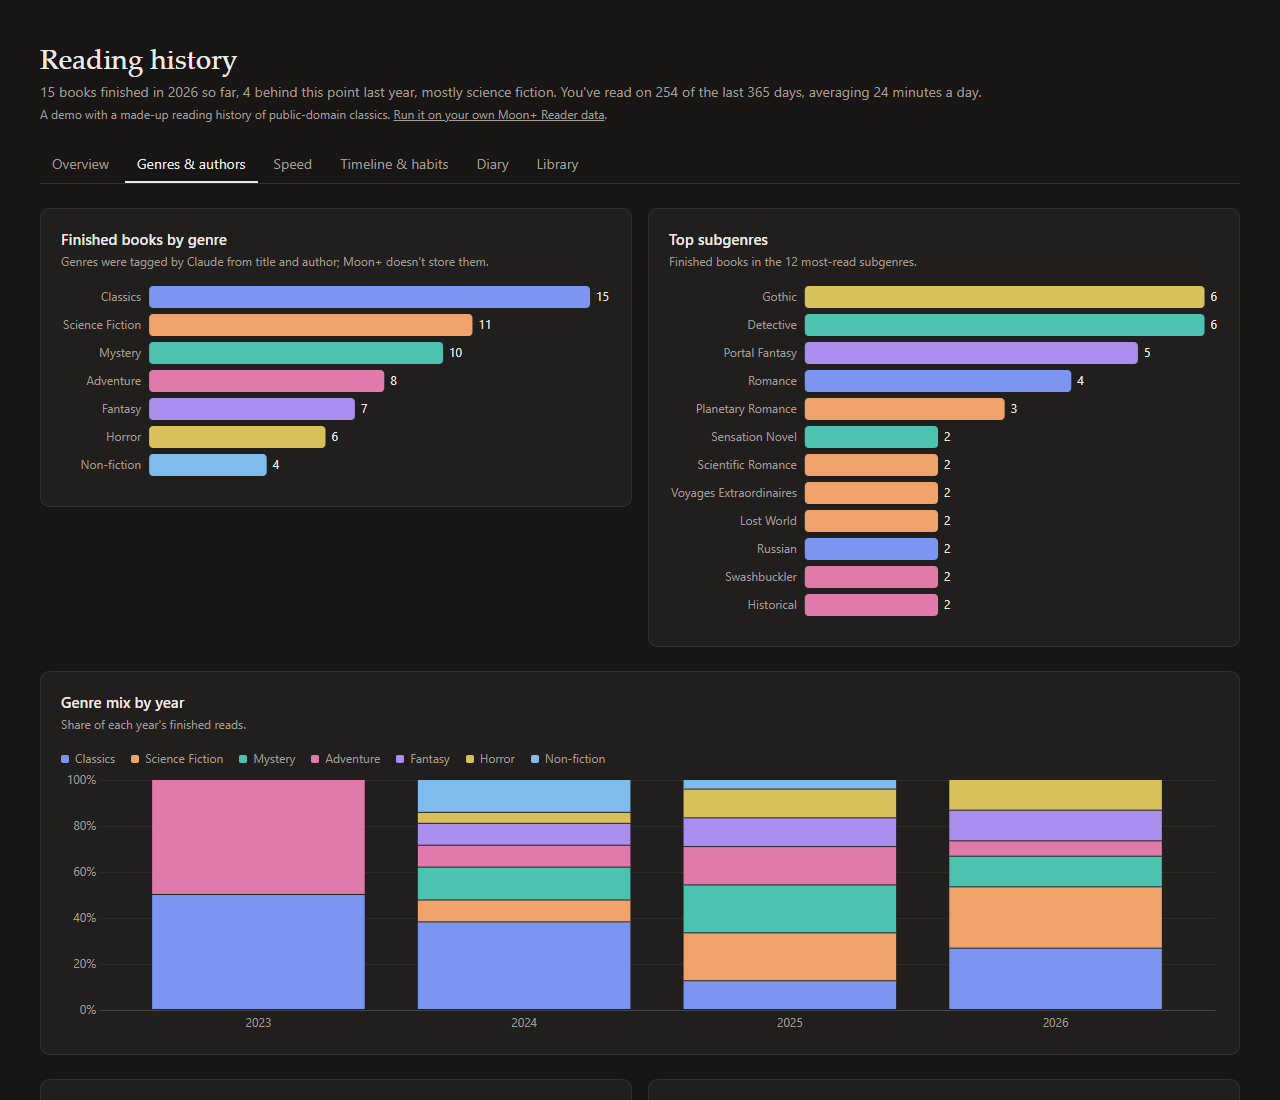
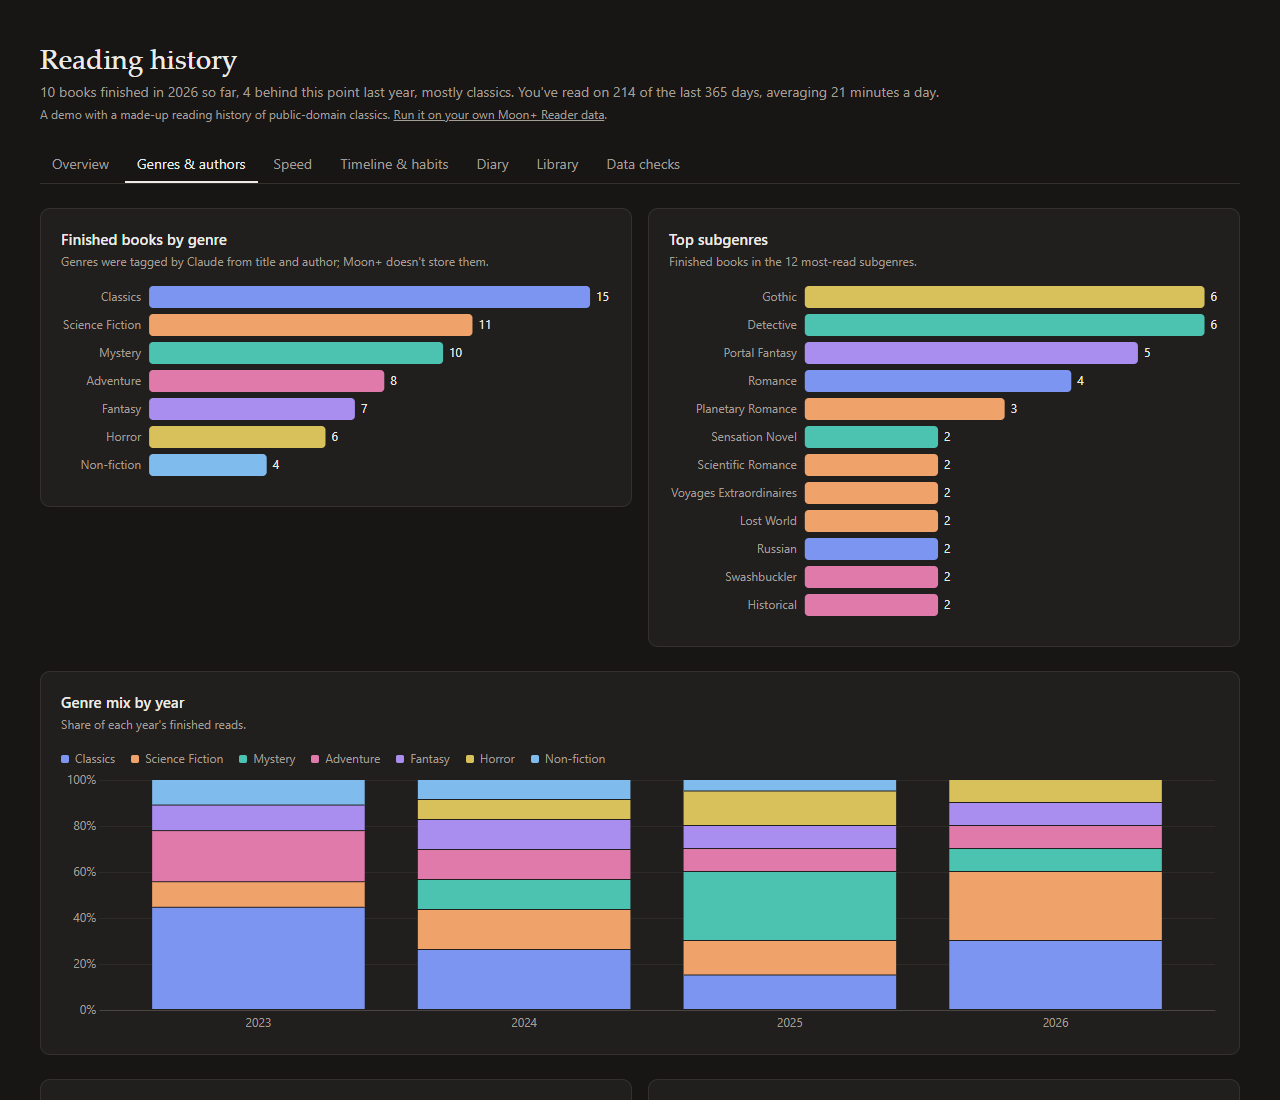
Demo: add the Data checks tab, and give it something to find
Screenshots retaken after merging main, with the new Data checks tab
added to the README. The made-up history now has a few books opened
once weeks before they were started, and two long pauses mid-book, so
the checks have something to show. Rebuilds keep the covers they
already downloaded.

diff --git a/demo/build_demo.py b/demo/build_demo.py
@@ -91,6 +91,9 @@ SPEED = {'Science Fiction': 270, 'Mystery': 300, 'Classics': 225, 'Adventure': 2
 ABANDON = {'Middlemarch': 23.0, 'On the Origin of Species': 17.0, 'The Princess and the Goblin': 41.0}
 REREAD = 'Pride and Prejudice'       # read again near the end
 CURRENT = 'The Count of Monte Cristo'  # the book on the go, left part way through
+# a few quirks real logs have, so the Data checks tab has something to show
+STRAY = {'Jane Eyre': 52, 'The Moonstone': 41, 'Dracula': 64}   # opened once, this many days before starting
+PAUSE = {'Anna Karenina': 50.0, 'The Three Musketeers': 60.0}   # put down for a couple of months at this %
 
 
 def file_name(title, author):
@@ -127,6 +130,9 @@ def simulate(rng):
         wpm = SPEED[genre] * rng.uniform(0.85, 1.18)
         done = 0
         entries = log.setdefault(f, [])
+        if title in STRAY and day > STRAY[title]:
+            entries.append((day - STRAY[title], 4.0, int(4 * wpm), 0.3))
+        paused = title not in PAUSE
         while True:
             date = day
             day += 1
@@ -139,6 +145,9 @@ def simulate(rng):
             w = int(minutes * wpm * rng.uniform(0.85, 1.15))
             done = min(words, done + w)
             progress = round(done / words * 100, 1)
+            if not paused and progress >= PAUSE[title]:
+                paused = True
+                day += rng.randint(65, 80)
             if progress >= stop:
                 progress = 100.0 if stop >= 100 else stop
                 entries.append((date, round(minutes, 1), w, progress))
@@ -190,10 +199,15 @@ def main():
     first_day -= first_day % 7    # keep simulated weekends on real weekends (day 0 is a Thursday)
     last = EPOCH + dt.timedelta(first_day + days - 1)
 
+    work = tempfile.mkdtemp()
+    covers_dir = os.path.join(out, 'covers')
+    if os.path.isdir(covers_dir):     # keep covers from an earlier build: the lookup is slow
+        shutil.move(covers_dir, os.path.join(work, 'covers'))
     if os.path.isdir(out):
         shutil.rmtree(out)
     shutil.copytree(os.path.join(APP, 'web'), out)
-    work = tempfile.mkdtemp()
+    if os.path.isdir(os.path.join(work, 'covers')):
+        shutil.move(os.path.join(work, 'covers'), covers_dir)
     try:
         backup = os.path.join(work, 'demo-library.mrpro')
         make_backup(backup, log, first_day)
@@ -202,7 +216,6 @@ def main():
                                             for t, a, g, sg, s, n, _ in BOOKS})
         cat_path = os.path.join(work, 'catalogue.json')
         json.dump(catalogue, open(cat_path, 'w', encoding='utf-8'), ensure_ascii=False)
-        covers_dir = os.path.join(out, 'covers')
         env = dict(os.environ, CATALOGUE=cat_path, DATA_DIR=os.path.join(out, 'data'), COVERS_DIR=covers_dir)
         subprocess.run([sys.executable, os.path.join(APP, 'update.py'), backup], env=env, check=True)
         if os.environ.get('COVER_LOOKUP', 'on').lower() != 'off':

diff --git a/README.md b/README.md
@@ -36,7 +36,10 @@ It's one small container with no dependencies beyond the Python standard library
   </tr>
   <tr>
     <td width="50%" valign="top"><a href="https://chorsnell.github.io/moonreader-dashboard/#library"><picture><source media="(prefers-color-scheme: dark)" srcset="docs/screenshots/library-dark.png"><img src="docs/screenshots/library.png" alt="Library"></picture></a><br><b>Library</b></td>
-    <td width="50%" valign="top" align="center"><a href="https://chorsnell.github.io/moonreader-dashboard/"><picture><source media="(prefers-color-scheme: dark)" srcset="docs/screenshots/mobile-dark.png"><img src="docs/screenshots/mobile.png" alt="On a phone" width="240"></picture></a><br><b>On a phone</b></td>
+    <td width="50%" valign="top"><a href="https://chorsnell.github.io/moonreader-dashboard/#checks"><picture><source media="(prefers-color-scheme: dark)" srcset="docs/screenshots/checks-dark.png"><img src="docs/screenshots/checks.png" alt="Data checks"></picture></a><br><b>Data checks</b></td>
+  </tr>
+  <tr>
+    <td colspan="2" align="center"><a href="https://chorsnell.github.io/moonreader-dashboard/"><picture><source media="(prefers-color-scheme: dark)" srcset="docs/screenshots/mobile-dark.png"><img src="docs/screenshots/mobile.png" alt="On a phone" width="240"></picture></a><br><b>On a phone</b></td>
   </tr>
 </table>
 
@@ -163,7 +166,7 @@ LIBRARY=./library UPLOAD_TOKEN=dev python3 app/server.py   # run without Docker 
 
 ### The demo
 
-`demo/build_demo.py` makes up three years of reading (65 public-domain books, with series, re-reads, abandoned books and one on the go), writes it as a fake Moon+ backup, and runs it through the real `update.py`. The result is a static copy of the page that works on any static host:
+`demo/build_demo.py` makes up three years of reading (65 public-domain books, with series, a re-read, abandoned books, one on the go, and a few of the oddities the Data checks tab looks for), writes it as a fake Moon+ backup, and runs it through the real `update.py`. The result is a static copy of the page that works on any static host:
 
 ```sh
 python3 demo/build_demo.py site              # COVER_LOOKUP=off to skip Open Library
